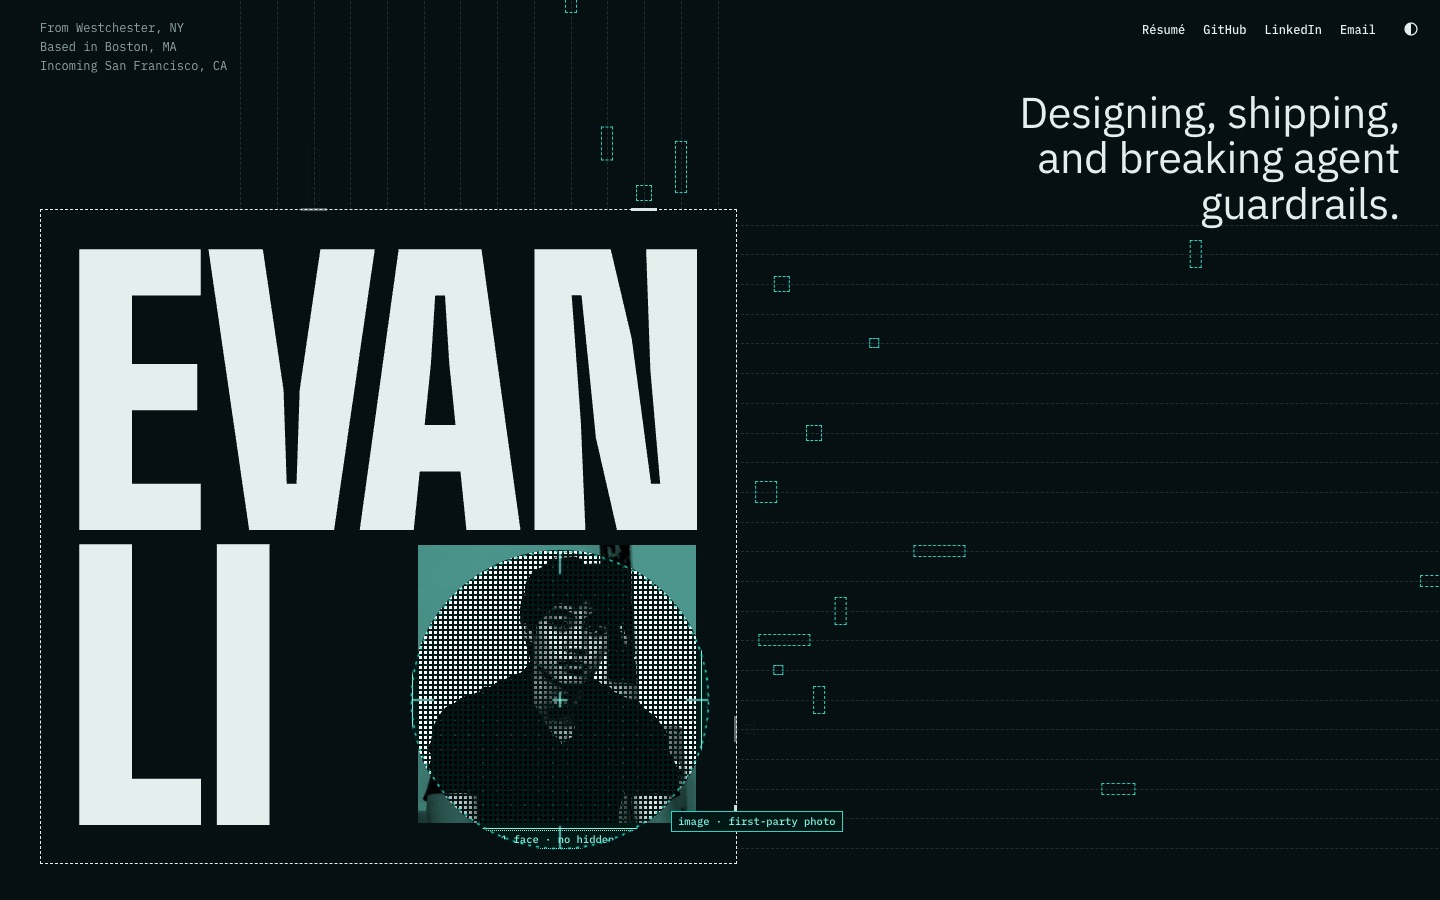
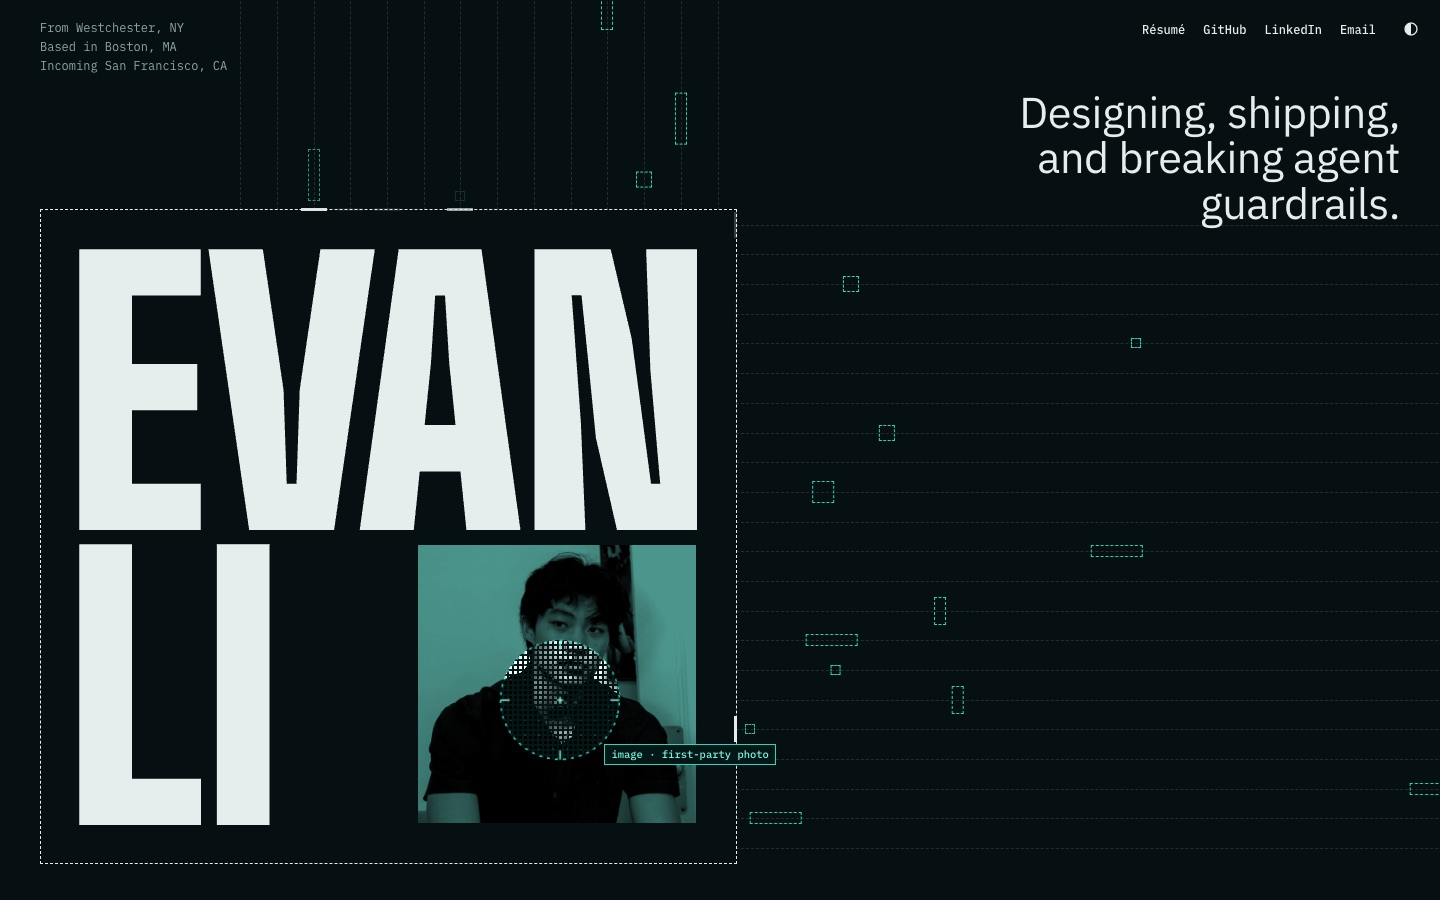
Lens only on the landing screen, smaller

Changed region(s): [[0.2812, 0.5911, 0.5938, 0.9644]]

diff --git a/src/components/Journey.tsx b/src/components/Journey.tsx
@@ -3,7 +3,7 @@ import { categories, type Entry } from '../data';
 import { Diagram } from '../diagrams/Diagram';
 import * as specs from '../diagrams/specs';
 import { useId, useLayer, useShared } from '../layer';
-import { AgentOnly, Text } from './Text';
+import { Text } from './Text';
 
 // A pinned index on the side; the open section's entries scroll as a normal page.
 
@@ -31,7 +31,6 @@ function Chapter({ catId, entry, index }: { catId: string; entry: Entry; index: 
   };
   const when = entry.meta;
   const spec = entry.diagram ? specs[entry.diagram] : null;
-  const words = entry.body?.flat().map((s) => s.text).join('').split(/\s+/).length ?? 0;
   const tab = layer === 'human' ? 0 : -1;
   const work = catId === 'work';
   const sub = work ? entry.title : catId === 'coursework' ? (entry.org ?? '').split(' · ')[1] : entry.org;
@@ -44,11 +43,7 @@ function Chapter({ catId, entry, index }: { catId: string; entry: Entry; index: 
         {(work ? entry.org : entry.title) && <h2 className="ch-title">{work ? entry.org : entry.title}</h2>}
         {sub && <p className="ch-sub">{sub}</p>}
         <div className="ch-text" data-prov="trusted" data-prov-label="authored by Evan">
-          {entry.body && (
-            <AgentOnly className="note-ch">
-              {entry.body.length} {entry.body.length === 1 ? 'sentence' : 'sentences'} · {words} words{phases.size ? ` · ${phases.size} linked to the diagram` : ''}
-            </AgentOnly>
-          )}
+
           {entry.body?.map((segs, i) => (
             <p key={i}>
               {segs.map((s, j) =>
@@ -147,7 +142,6 @@ export function Journey() {
             </button>
           ))}
         </nav>
-        <AgentOnly className="note-egg"><Text>TODO(evan): something worth finding</Text></AgentOnly>
       </aside>
 
       <div className="j-main" id={id('j-panel')} role="tabpanel" aria-labelledby={id(`tab-${cat.id}`)}>

diff --git a/src/components/Lens.tsx b/src/components/Lens.tsx
@@ -1,6 +1,7 @@
 import { useEffect, useRef } from 'react';
 
-// The cursor is the lens. Inside it, the agent layer shows through.
+// On the landing screen the cursor is the lens, and the agent layer shows through it.
+// Below the hero it goes away and the normal cursor returns.
 // On touch screens it rests mid-screen and moves to wherever you touch.
 export function Lens() {
   const ring = useRef<HTMLDivElement>(null);
@@ -10,7 +11,9 @@ export function Lens() {
     const agent = document.querySelector<HTMLElement>('.agent-layer');
     const human = document.querySelector<HTMLElement>('.human-layer');
     if (!agent || !human) return;
-    const radius = () => (innerWidth < 640 ? 64 : 90);
+    const radius = () => (innerWidth < 640 ? 44 : 60);
+    const hero = document.querySelector<HTMLElement>('.human-layer .hero');
+    const root = document.documentElement;
     let x = innerWidth / 2;
     let y = innerHeight * 0.55;
     let frame = 0;
@@ -25,6 +28,11 @@ export function Lens() {
 
     const update = () => {
       frame = 0;
+      const box = hero?.getBoundingClientRect();
+      const on = !!box && y >= box.top && y <= box.bottom;
+      root.toggleAttribute('data-lens', on);
+      if (ring.current) ring.current.style.display = on ? '' : 'none';
+      if (!on) { agent.style.clipPath = 'circle(0px at -500px -500px)'; return; }
       const r = radius();
       agent.style.clipPath = `circle(${r}px at ${x}px ${y + scrollY}px)`;
       if (ring.current) {
@@ -52,6 +60,7 @@ export function Lens() {
       window.removeEventListener('scroll', schedule);
       window.removeEventListener('resize', schedule);
       cancelAnimationFrame(frame);
+      root.removeAttribute('data-lens');
     };
   }, []);
 

diff --git a/src/index.css b/src/index.css
@@ -284,7 +284,6 @@ a:hover { color: var(--acc); }
   .ch-dia { margin-top: 28px; }
   .ch-big { margin: 0 0 14px; font-size: clamp(3.4rem, 18vw, 6rem); text-align: left; }
   .chapter.no-dia { display: flex; flex-direction: column-reverse; }
-  .note-egg { display: none; }
 }
 
 /* Diagrams */
@@ -377,7 +376,7 @@ a:hover { color: var(--acc); }
 .ic-fill { fill: currentColor; }
 /* The lens is the cursor. */
 @media (pointer: fine) {
-  html, html * { cursor: none !important; }
+  html[data-lens], html[data-lens] * { cursor: none !important; }
 }
 .lens {
   position: fixed;
@@ -385,7 +384,7 @@ a:hover { color: var(--acc); }
   left: 0;
   z-index: 30;
   pointer-events: none;
-  --r: 90px;
+  --r: 60px;
   /* The lens always draws in the agent layer's colors. */
   --bg: #011817;
   --ink: #82f3e2;
@@ -501,10 +500,9 @@ a:hover { color: var(--acc); }
 }
 .facts { top: 96px; left: clamp(16px, 3vw, 40px); }
 .note-h1 { top: 14px; right: 16px; }
-.note-ch { top: -30px; left: 0; }
 .note-photo { left: 0; bottom: -26px; }
 .human-layer { overflow-x: clip; }
-.note-egg { left: clamp(16px, 3vw, 40px); bottom: 220px; }
+.note-egg { left: var(--m); top: calc(100% + 14px); }
 
 @media (max-width: 640px) {
   .hero { grid-template-columns: 1fr; grid-template-rows: auto 1fr auto auto; padding-top: 18px; }
@@ -521,7 +519,7 @@ a:hover { color: var(--acc); }
   .corner-links .long { display: none; }
   .corner-links .short { display: block; width: 18px; height: 18px; }
   .theme { width: 32px; height: 32px; }
-  .lens { --r: 64px; }
+  .lens { --r: 44px; }
   .lens .lens-hud, .lens[data-flip] .lens-hud { left: 50%; right: auto; top: calc(var(--r) + 8px); transform: translateX(-50%); }
 }
 

diff --git a/src/components/Hero.tsx b/src/components/Hero.tsx
@@ -60,6 +60,7 @@ export function Hero() {
           <AgentOnly className="note-photo">640 × 640 · 1 face · no hidden text</AgentOnly>
         </span>
         <AgentOnly className="note-h1">h1 · 2 tokens · 1 of 1</AgentOnly>
+        <AgentOnly className="note-egg"><Text>TODO(evan): something worth finding</Text></AgentOnly>
         <div className="field" aria-hidden="true" data-prov="untrusted" data-prov-label="untrusted input, drawn and never written">
           {FIELD.map((l) => (
             <span key={l.key} className={`lane ${l.side}`} style={l.style}>

diff --git a/src/pages/Home.tsx b/src/pages/Home.tsx
@@ -1,11 +1,14 @@
 import { Hero } from '../components/Hero';
 import { Journey } from '../components/Journey';
+import { useLayer } from '../layer';
 
+// The agent copy only needs the hero: that's the only place the lens appears.
 export function Home() {
+  const agent = useLayer() === 'agent';
   return (
     <main>
       <Hero />
-      <Journey />
+      {!agent && <Journey />}
     </main>
   );
 }

diff --git a/BRIEF.md b/BRIEF.md
@@ -83,3 +83,4 @@ Diagrams are hand-built inline SVG with `role="img"`, `<title>`, `<desc>`. Flat,
 - 2026-10-27: Sections scroll normally (one-at-a-time pinning removed); the index stays pinned beside them. Diagram highlights are scoped per entry.
 - 2026-10-27: Text and diagram are paired by numbers: each linked phrase carries a small teal number and the matching diagram node shows the same number, so the link reads without hovering. Hovering either one highlights both. Lens radius is 90px on desktop and 64px on phones.
 - 2026-10-27: On phones the corner links are symbols (page, GitHub mark, LinkedIn square, envelope) with full names for screen readers, so no full-width bar covers the content; the vertical index is sized to fit a small phone.
+- 2026-10-27: The lens lives only on the landing screen (radius 60px, 44px on phones). Below the hero it disappears and the normal cursor returns, and the agent copy renders only the hero.
